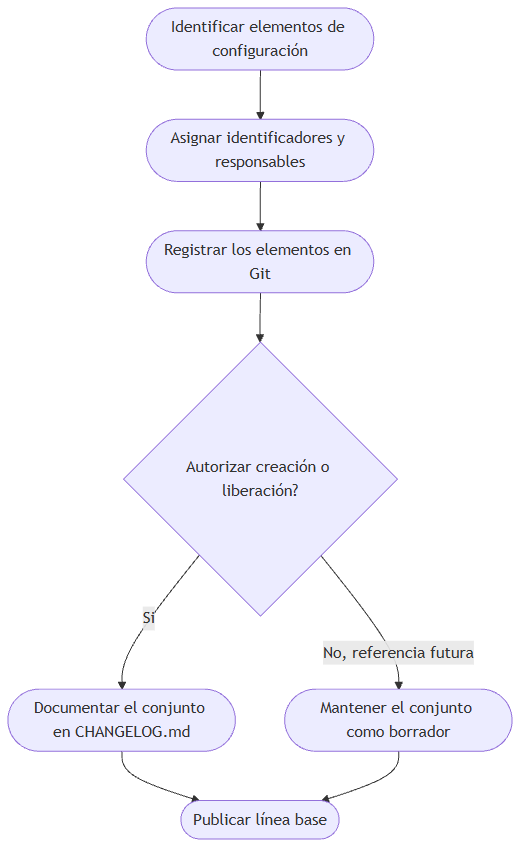
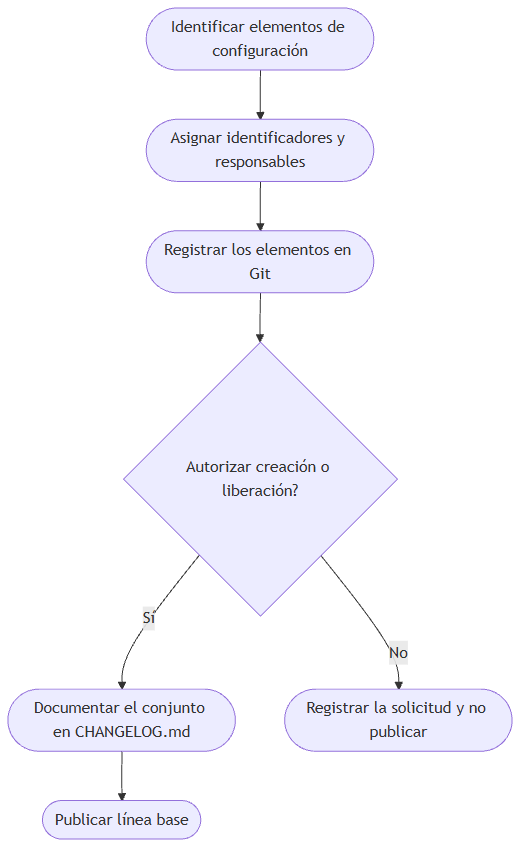
docs: corregir precisiones de gestion de configuracion

Changed region(s): [[0.0606, 0.8778, 0.6364, 0.9686], [0.5758, 0.8172, 0.9091, 0.908], [0.6061, 0.7567, 0.9091, 0.787]]

diff --git a/docs/17-gestion-de-la-configuracion.md b/docs/17-gestion-de-la-configuracion.md
@@ -28,11 +28,11 @@ La tabla siguiente resume los tres objetivos específicos y las siete prácticas
 
 | Objetivo | Práctica | Aplicación real en Mely Faciales | Estado |
 |---|---|---|---|
-| SG1 Gestionar la configuración | SP1.1 Identificar elementos de configuración | Documentos 01 a 17, PNG, fuentes `.mmd`, `SPRINTBOARD.md`, `CHANGELOG.md` y código previsto | Aplicado |
-| SG1 Gestionar la configuración | SP1.2 Establecer el sistema de gestión de la configuración | Git y GitHub con carpetas por documento y convención de nombres | Aplicado |
-| SG1 Gestionar la configuración | SP1.3 Crear y liberar líneas base | Cada cierre de entrega se identifica con un commit y su entrada en el changelog | Aplicado |
-| SG2 Controlar los cambios | SP2.1 Seguimiento de solicitudes de cambio | Solicitudes registradas en `SPRINTBOARD.md` y `CHANGELOG.md` | Aplicado |
-| SG2 Controlar los cambios | SP2.2 Controlar cambios en elementos bajo configuración | Análisis de impacto y acuerdo con Mely y Erin antes de cada cambio | Aplicado |
+| SG1 Establecer líneas base | SP1.1 Identificar elementos de configuración | Documentos 01 a 17, PNG, `SPRINTBOARD.md` y `CHANGELOG.md`; el código queda previsto para Sprint 1 | Aplicado |
+| SG1 Establecer líneas base | SP1.2 Establecer el sistema de gestión de la configuración | Git y GitHub con carpetas por documento y convención de nombres | Aplicado |
+| SG1 Establecer líneas base | SP1.3 Crear y liberar líneas base | Cada cierre de entrega se identifica con un commit y su entrada en el changelog | Aplicado |
+| SG2 Supervisar y controlar los cambios | SP2.1 Seguimiento de solicitudes de cambio | Solicitudes registradas en `SPRINTBOARD.md` y `CHANGELOG.md` | Aplicado |
+| SG2 Supervisar y controlar los cambios | SP2.2 Controlar cambios en elementos bajo configuración | Análisis de impacto y acuerdo con Mely y Erin antes de cada cambio | Aplicado |
 | SG3 Establecer la integridad | SP3.1 Registros de configuración | Historial de Git y entradas de `CHANGELOG.md` | Aplicado |
 | SG3 Establecer la integridad | SP3.2 Auditorías de configuración | Lista de chequeo con 41 referencias de imagen vigentes y 0 rutas rotas | Aplicado |
 
@@ -51,12 +51,12 @@ La configuración del software reúne los productos de trabajo de Sprint 0 y sus
 | SCM | Gestión de la configuración del software; CMMI CM describe las prácticas de referencia |
 | CMS | Sistema de gestión de la configuración; GitHub con sus carpetas y convenciones cumple este papel |
 
-## 3. Elementos bajo control en Mely Faciales
+## 3. Elementos documentados y su control
 | Elemento | Ubicación | Situación |
 |---|---|---|
 | Documentos 01 a 17 | `docs/*.md` | Aplicado: 17 documentos versionados |
 | Diagramas exportados | `docs/images/`, una carpeta por documento | Aplicado: 59 PNG, sin regeneraciones fuera de su entrega |
-| Fuentes de diagramas | Directorio temporal `mely-mmd`, fuera del repositorio | Aplicado: 59 fuentes `.mmd` en UTF-8 sin BOM |
+| Fuentes de diagramas | Directorio temporal `mely-mmd`, fuera del repositorio | Referencia externa: 59 fuentes `.mmd` en el directorio temporal, UTF-8 sin BOM, fuera del repositorio |
 | Seguimiento del sprint | `SPRINTBOARD.md` | Aplicado: backlog, progreso 29/29 y conteo actual |
 | Historial de cambios | `CHANGELOG.md` | Aplicado: entradas de Added y Changed |
 | Código de la aplicación | Previsto en el documento 10 con Java 25 LTS, Spring Boot 4.1, React y TypeScript | Referencia para Sprint 1 |
@@ -127,7 +127,7 @@ Los registros permiten recuperar cualquier versión desde Git y explicar su cont
 ## 9. Aplicación, trazabilidad y conclusiones
 | Práctica | Evidencia real | Estado |
 |---|---|---|
-| Identificación de elementos | 17 documentos, 59 PNG y 59 fuentes `.mmd` con nombres normalizados | Aplicado |
+| Identificación de elementos | 17 documentos, 59 PNG y 59 fuentes `.mmd` en directorio temporal | Referencia externa, no versionadas |
 | Sistema de gestión de la configuración | Git, GitHub y una carpeta de imágenes por documento | Aplicado |
 | Líneas base | Commits de cierre y entradas de `CHANGELOG.md` | Aplicado |
 | Control de cambios | Acuerdo de Mely y Erin registrado en el sprintboard y el changelog | Aplicado |

diff --git a/CHANGELOG.md b/CHANGELOG.md
@@ -37,6 +37,7 @@ El formato sigue *Keep a Changelog* y la versión sigue *Semantic Versioning*.
 - Stack actualizado a Java 25 LTS + Spring Boot 4.1; eliminados Firebase y Firestore del modelo de diseño; nombres de controladores y mensajes alineados con los diagramas.
 - Precisados los estados de aplicación del documento 16 y normalizadas las tildes en sus cuatro diagramas de actividad.
 - Unificada la terminología de desviación en el documento 16 y separado el conteo actual del progreso del sprintboard.
+- Corregida la denominación de los objetivos CMMI CM y la clasificación de las fuentes de diagramas en el documento 17.
 
 ## [0.1.0] - 2026-11-25
 
